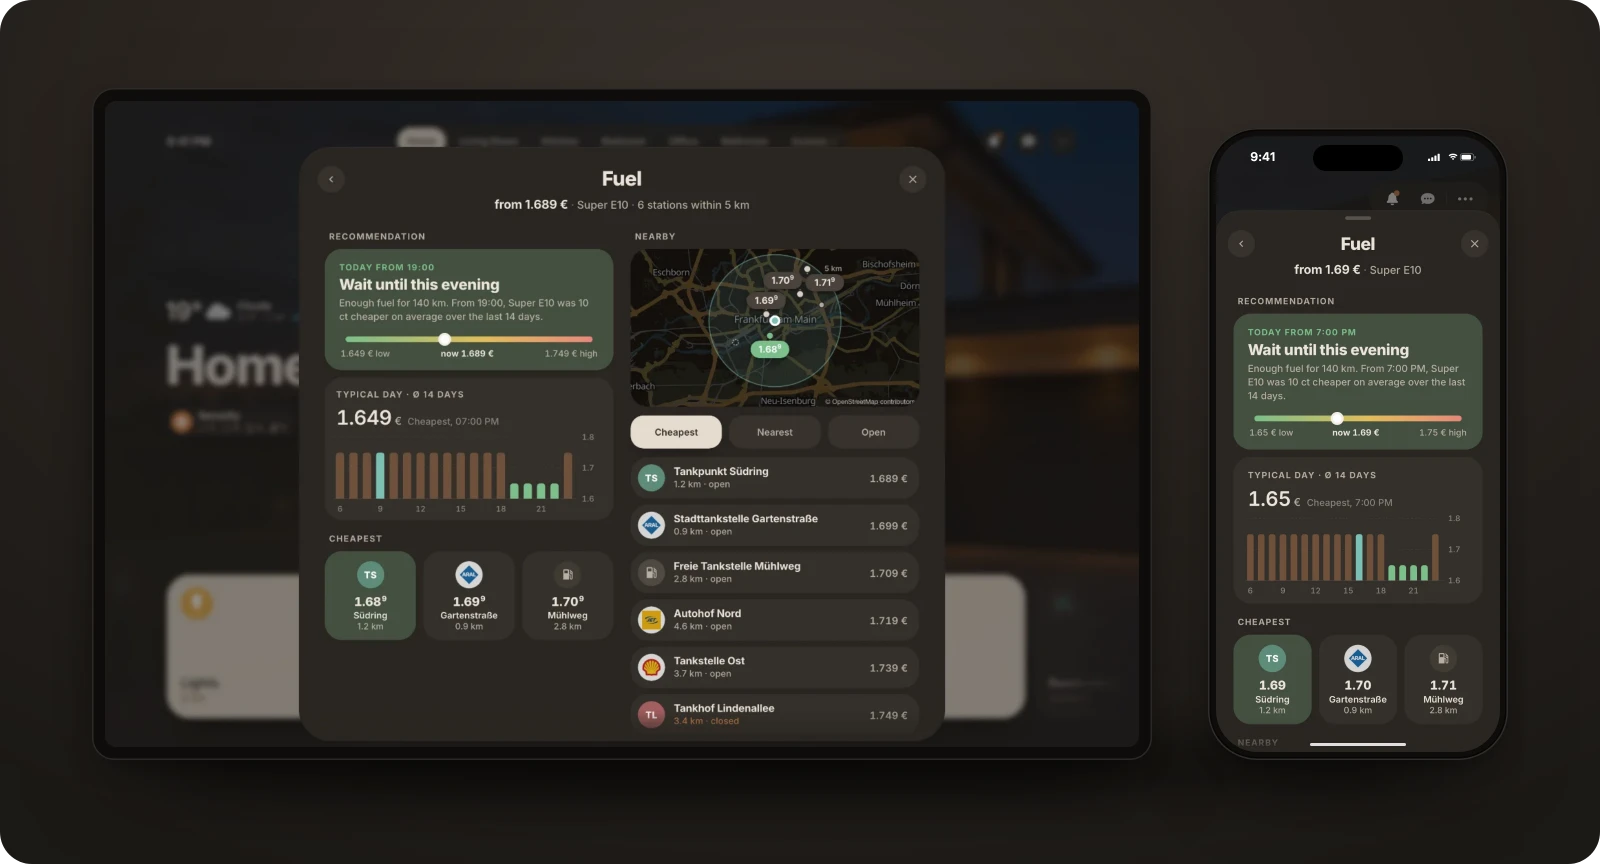
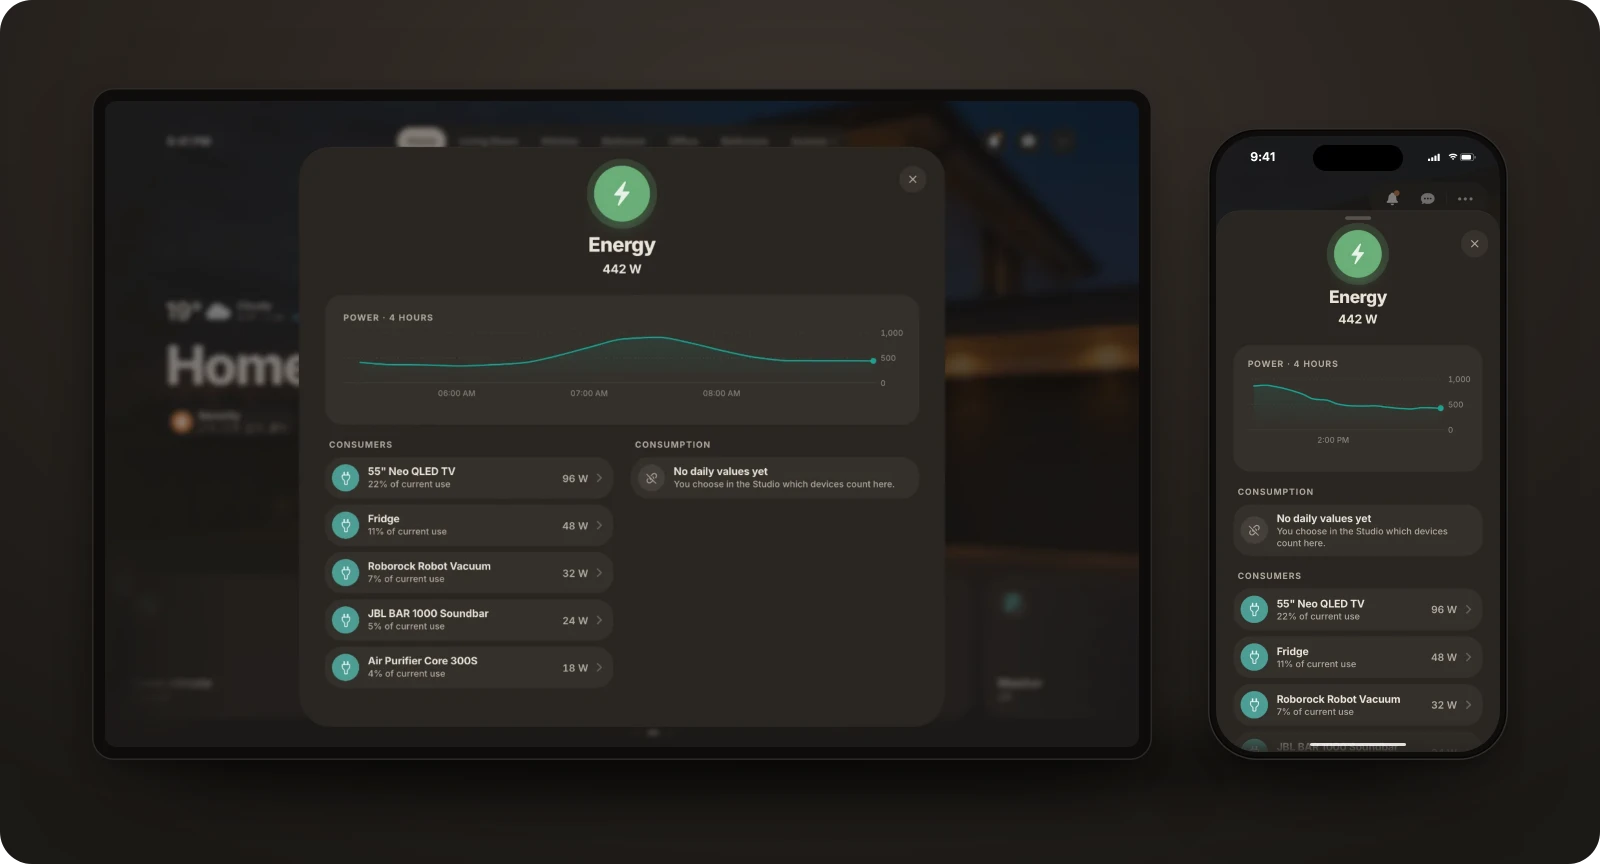
README und Website: Energie statt Tanken als zweites Popup-Bild, Übersicht aller Kacheln

diff --git a/docs/index.html b/docs/index.html
@@ -439,6 +439,33 @@ html[lang="de"] .en, html[lang="en"] .de { display: none !important; }
   </section>
 
 
+  <section id="covers">
+    <div class="wrap">
+      <div class="head center">
+        <p class="eyebrow"><span class="en">Tiles</span><span class="de">Kacheln</span></p>
+        <h2><span class="en">Everything in your home.<br>Already covered.</span><span class="de">Alles in deinem Zuhause.<br>Schon dabei.</span></h2>
+        <p class="lead"><span class="en">Casora picks the right tile and popup for each device on its own, with the integrations you already have.</span><span class="de">Casora wählt für jedes Gerät selbst die passende Kachel und das passende Popup, mit den Integrationen, die du schon hast.</span></p>
+      </div>
+      <div class="covers">
+        <div class="cov"><h3><span class="en">Every home</span><span class="de">Jedes Zuhause</span></h3><p><span class="en">Lights, switches, scenes, blinds, locks, thermostats and room climate, fans, air purifiers, humidifiers, media players, cameras and doorbells</span><span class="de">Licht, Schalter, Szenen, Jalousien, Schlösser, Thermostate und Raumklima, Ventilatoren, Luftreiniger, Luftbefeuchter, Medien, Kameras und Klingeln</span></p></div>
+        <div class="cov"><h3><span class="en">Safety</span><span class="de">Sicherheit</span></h3><p><span class="en">Alarm system, doors and windows, smoke, water and gas sensors, weather warnings</span><span class="de">Alarmanlage, Türen und Fenster, Rauch-, Wasser- und Gasmelder, Wetterwarnungen</span></p></div>
+        <div class="cov"><h3><span class="en">Energy and house</span><span class="de">Energie und Haus</span></h3><p><span class="en">Energy with solar and home battery, batteries of all devices, network, updates, waste collection, calendar</span><span class="de">Energie mit Solar und Hausakku, Batterien aller Geräte, Netzwerk, Updates, Abfall, Kalender</span></p></div>
+        <div class="cov"><h3><span class="en">Appliances</span><span class="de">Geräte</span></h3><p><span class="en">Washing machine, dryer, dishwasher, robot vacuum, 3D printer</span><span class="de">Waschmaschine, Trockner, Geschirrspüler, Saugroboter, 3D-Drucker</span></p></div>
+        <div class="cov"><h3><span class="en">On the road</span><span class="de">Unterwegs</span></h3><p><span class="en">Car with fuel prices nearby, e-bike</span><span class="de">Auto mit Spritpreisen in der Nähe, E-Bike</span></p></div>
+        <div class="cov"><h3><span class="en">Hobbies</span><span class="de">Hobbys</span></h3><p><span class="en">Plants, aquariums, football, game activity, recipe of the week</span><span class="de">Pflanzen, Aquarien, Fußball, Spiele-Aktivität, Rezept der Woche</span></p></div>
+      </div>
+      <p class="cap center"><span class="en">Plus any Home Assistant card as a custom tile.</span><span class="de">Dazu jede Home-Assistant-Karte als eigene Kachel.</span></p>
+    </div>
+  </section>
+
+  <style>
+    #covers .covers{display:grid;grid-template-columns:repeat(auto-fit,minmax(260px,1fr));gap:16px;margin-top:32px}
+    #covers .cov{background:var(--card, rgba(255,255,255,.6));border-radius:24px;padding:22px 24px}
+    #covers .cov h3{margin:0 0 6px;font-size:17px}
+    #covers .cov p{margin:0;opacity:.8;line-height:1.5}
+    #covers .cap{margin-top:20px;text-align:center}
+  </style>
+
   <!-- Studio -->
   <section class="tint" id="studio">
     <div class="wrap">

diff --git a/README.md b/README.md
@@ -57,9 +57,9 @@ Casora recognises robot vacuums, washers and dryers, dishwashers, 3D printers, h
 <p align="center">
   <picture>
     <source media="(prefers-color-scheme: dark)" srcset="docs/images/readme-popups2-dark.webp" />
-    <img src="docs/images/readme-popups2-light.webp" alt="The fuel view of the car popup on a desktop display and on a phone: when to refuel, a typical day of prices, the cheapest stations, a map and the price list." />
+    <img src="docs/images/readme-popups2-light.webp" alt="The energy popup on a desktop display and on a phone: power right now, a chart of the last hours, where the power comes from and the biggest consumers." />
   </picture>
-  <br/><sub><b>Fuel, right in the car popup.</b> When to refuel, the cheapest stations nearby and a typical day of prices, from Tankerkönig.</sub>
+  <br/><sub><b>Energy at a glance.</b> Power right now, where it comes from, where the solar power goes and which devices use the most.</sub>
 </p>
 
 <p align="center">
@@ -77,6 +77,20 @@ Casora recognises robot vacuums, washers and dryers, dishwashers, 3D printers, h
   </picture>
   <br/><sub><b>Assistants for the tedious part.</b> Place new devices, move from Hemma, go back to any version.</sub>
 </p>
+
+## What Casora covers
+
+Casora picks the right tile and popup for each device on its own. Everything below works with the integrations you already have.
+
+| | Tiles and popups |
+|---|---|
+| **Every home** | Lights and light groups, switches, scenes, blinds and covers, locks, thermostats and room climate, fans, air purifiers, humidifiers, media players, cameras and doorbells |
+| **Safety** | Alarm system, doors and windows, smoke, water and gas sensors, weather warnings |
+| **Energy and house** | Energy with solar and home battery, batteries of all devices, network, updates, waste collection, calendar |
+| **Appliances** | Washing machine, dryer, dishwasher, robot vacuum, 3D printer |
+| **On the road** | Car with fuel prices nearby, e-bike |
+| **Hobbies** | Plants, aquariums, football, game activity (PlayStation, Steam, Discord), recipe of the week |
+| **Your own** | Any Home Assistant card as a custom tile |
 
 The look is *Casora*: warm linen, generous corners and soft shadows, in light and dark, set in Inter. *Casora Nebel* is the same calm design in cool grey with a petrol accent. It follows Home Assistant's theme mode. The classic glass looks from Hemma are still there as legacy options.
 
